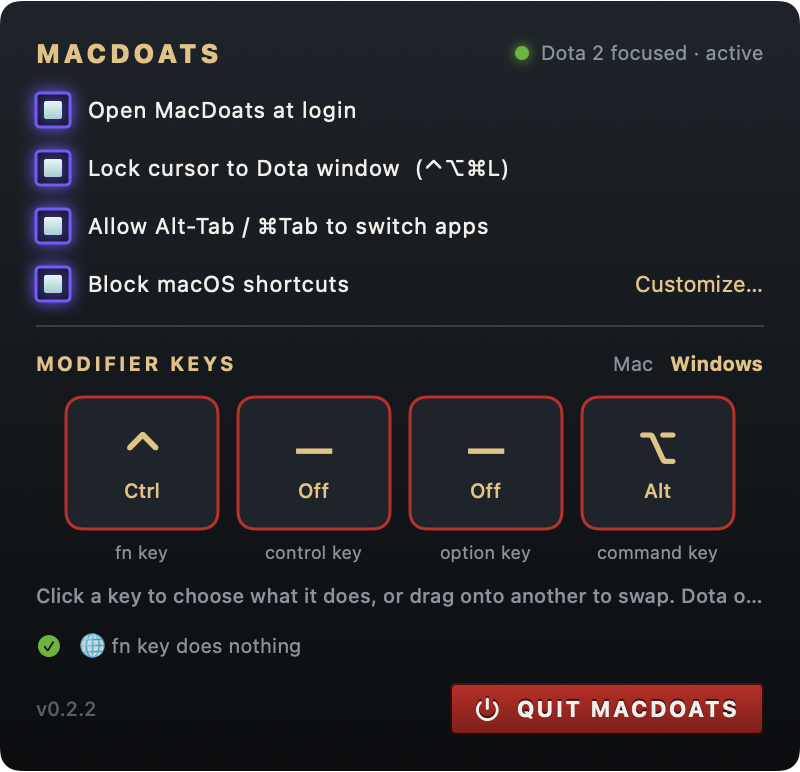
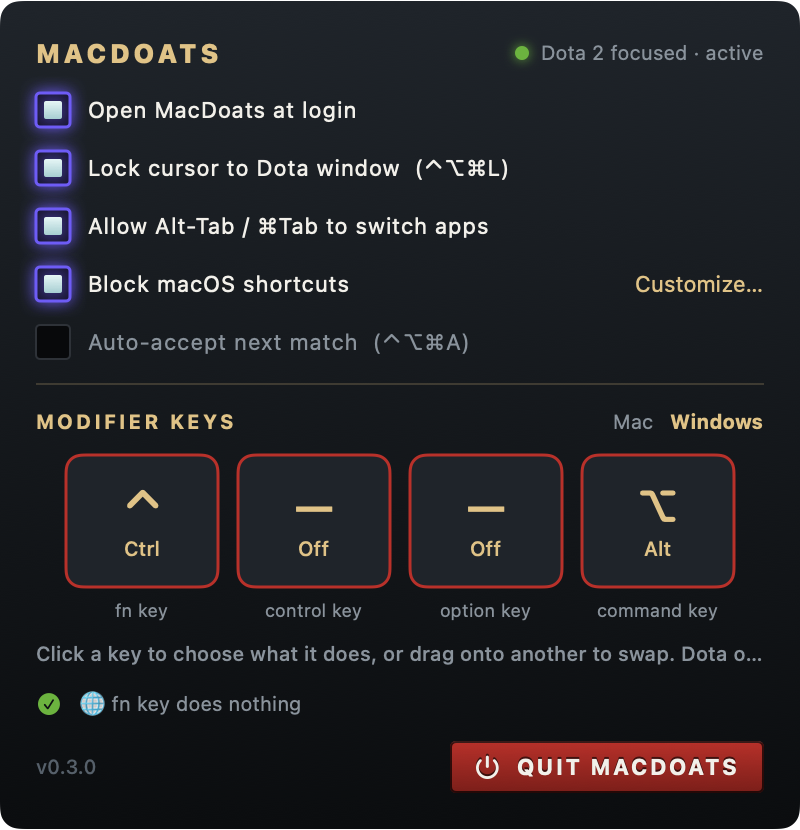
Document auto-accept and refresh the README screenshots
The README covers the new hotkey, the -condebug requirement, the icon states and the mouse-lock setting rename, so a player can find out why auto-accept is greyed out without reading the source. The screenshots are regenerated from the new icon and panel so they match the shipped UI.

diff --git a/README.md b/README.md
@@ -6,7 +6,8 @@
 
 <p align="center">
   A menu-bar companion that makes Dota 2 behave on a Mac.<br>
-  Keeps your cursor in the game, stops ⌘Q from closing the client, and lets your modifier keys work the way your fingers expect.
+  Keeps your cursor in the game, stops ⌘Q from closing the client, lets your modifier keys work the way your fingers expect,
+  and accepts your next match while you're away.
 </p>
 
 ---
@@ -30,6 +31,16 @@
   what it does, including Off. Two keys can share the same output.
   - **Mac preset:** fn · ⌃ · ⌥ · ⌘ (unchanged).
   - **Windows preset:** fn → Ctrl, ⌃ → Off, ⌥ → Off, ⌘ → Alt.
+- **Auto-accept next match:** press **⌃⌥⌘A** (or tick the box) and walk away. When the accept popup shows, MacDoats
+  presses Return for you, once, and only if Dota is in front.
+  - It works as a party member too, whoever started the queue.
+  - It turns itself off when the match starts, when Dota quits, or after an hour.
+  - Sounds: Tink when armed, Pop when off, Glass when the accept landed, Basso when it couldn't press (Dota wasn't in
+    front, or the press didn't register).
+  - While armed, it keeps your display awake so the Mac doesn't lock mid-queue.
+  - **Needs `-condebug`:** in Steam, right-click Dota 2 → Properties → Launch Options, add `-condebug`, and restart
+    Dota. Dota then writes a console log, which is how MacDoats knows when a match pops.
+  - Dota's *Bring Dota to foreground on match found* option (Options → Advanced) must stay on; it's on by default.
 - **Open at login:** one checkbox adds MacDoats to System Settings → General → Login Items.
 - **fn / 🌐 key check:** shows whether tapping fn still opens the emoji picker, with a button that opens the macOS
   setting to turn it off.
@@ -38,13 +49,15 @@ Everything applies **only while Dota is the focused app**. Switch away and your 
 
 ## The menu-bar icon
 
-<img src="docs/screenshots/menubar.png" width="187" alt="Menu-bar icon: plain tome while Dota runs, tome on a red pill while the cursor is locked">
+<img src="docs/screenshots/menubar.png" width="362" alt="Menu-bar icon: plain tome while Dota runs, red pill while the cursor is locked, green pill with a star while queued, gold dot while auto-accept is armed">
 
 | Icon | Meaning |
 |---|---|
 | Dimmed tome | Dota isn't running |
 | White tome | Dota is running |
 | Tome on a red pill | Cursor lock is engaged right now |
+| Ticking star on a green pill | You're in the matchmaking queue (queues you started; a party leader's queue isn't visible to members) |
+| Gold dot | Auto-accept is armed |
 
 Click the icon for settings. Right-click it for **About MacDoats** and **Quit**.
 
@@ -88,7 +101,8 @@ to see and filter key and mouse events. Until it's granted, the settings windows
 
 - **The cursor stays locked even with MacDoats' lock off:** Dota has its own *Lock Mouse to Window* setting.
   MacDoats detects it and shows a warning. Turn it off in Dota's settings, or in the console:
-  `in_lock_mouse_to_window 0`.
+  `dota_mouse_window_lock 0`. Dota saves settings when it quits, so the warning updates after that.
+- **Auto-accept is greyed out:** add `-condebug` to Dota's launch options (see Features) and restart Dota.
 - **Tapping fn still opens the emoji picker:** set System Settings → Keyboard → "Press 🌐 key to" → **Do Nothing**.
   The row in MacDoats links straight there. macOS may only apply this after you log out and back in.
 - **⌘Tab or ⌘Space still work:** macOS handles some system hotkeys before any app sees them, so a few rows in
@@ -105,8 +119,10 @@ to see and filter key and mouse events. Until it's granted, the settings windows
   - clamps the mouse to the Dota window's bounds.
 - The screenshot shortcuts are macOS symbolic hotkeys. MacDoats switches them off while Dota is focused and back on
   when you leave Dota, quit MacDoats or launch it again. It uses the same private API that AltTab uses.
-- MacDoats doesn't read or modify Dota's memory or game files. The one exception is reading Steam's `config.cfg` to
-  spot Dota's own mouse-lock setting.
+- Auto-accept follows Dota's `console.log` (with `-condebug`) through a kernel file watcher, so there's no polling and
+  no screen reading. When the log shows the accept popup and Dota is frontmost, MacDoats posts one Return key press.
+- MacDoats never modifies Dota's memory or files. It only reads two of them: `console.log`, and
+  `machine_convars.vcfg` for Dota's mouse-lock and bring-to-front settings.
 
 ## Development
 
@@ -114,7 +130,8 @@ to see and filter key and mouse events. Until it's granted, the settings windows
 swift run MacDoats --selftest
 ```
 
-That runs the modifier-remapping self-check. To regenerate the README screenshots from the real views (factory settings, Dota shown as
+That runs the self-checks: modifier remapping, plus the log parser and auto-accept decisions replayed on real
+Dota log lines. To regenerate the README screenshots from the real views (factory settings, Dota shown as
 focused), run `build/MacDoats.app/Contents/MacOS/MacDoats --screenshots docs/screenshots`. To try MacDoats without Dota, point it at another app:
 
 ```bash
@@ -130,7 +147,9 @@ defaults delete dev.macdoats.app targetBundleIDs
 | `Sources/Engine.swift` | Event tap, remapping, cursor lock, shortcut and screenshot blocking |
 | `Sources/UI.swift` | Settings panel, key squares, Customize… window, Dota-style checkboxes |
 | `Sources/StatusItem.swift` | Menu-bar item, popover, right-click menu |
-| `Sources/Icon.swift` | Menu-bar glyph, drawn in code from the logo geometry |
+| `Sources/Icon.swift` | Menu-bar glyph, drawn in code from the logo geometry, and the queue star |
+| `Sources/DotaLog.swift` | `console.log` watcher, line parser, auto-accept decisions |
+| `Sources/SelfTest.swift` | `--selftest` checks |
 | `design/logo/kit/` | Logo source scripts, exports, presentation board, usage guide |
 
 **Versioning:** [SemVer](https://semver.org). The version lives in `Info.plist` (`CFBundleShortVersionString`), and
